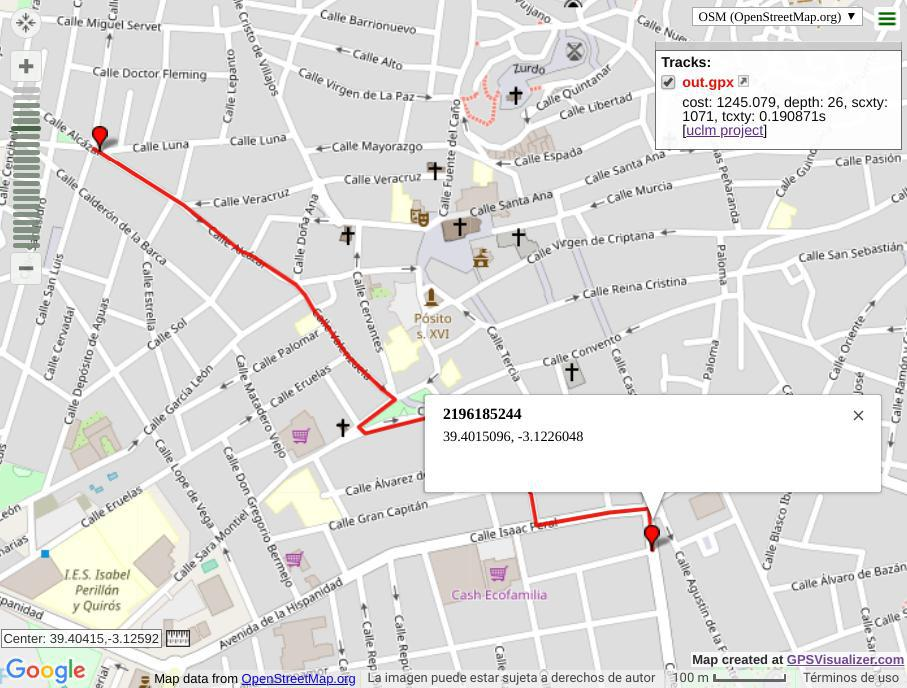
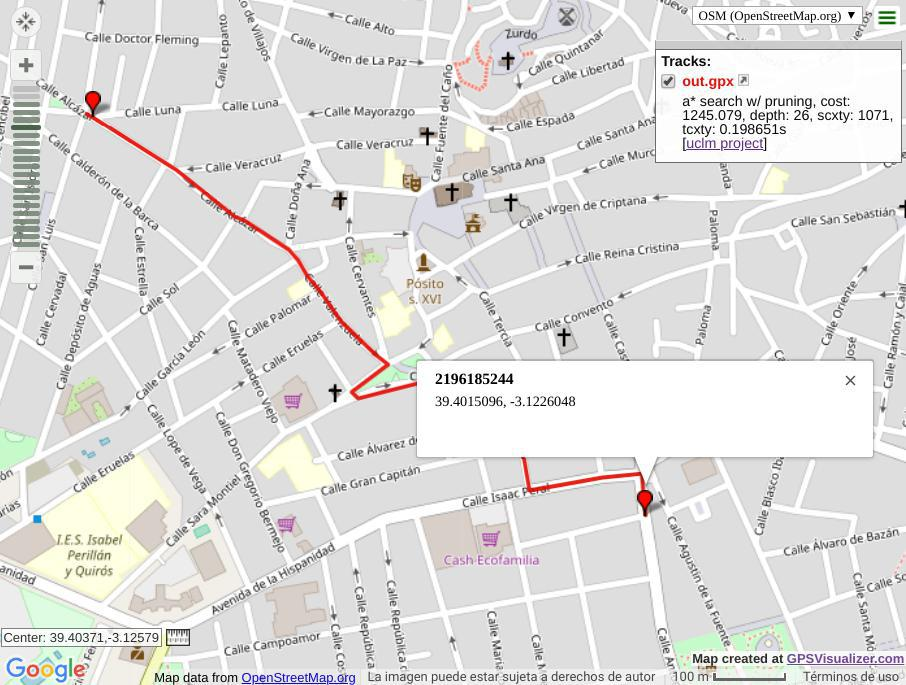
json tests

diff --git a/main.py b/main.py
@@ -7,11 +7,10 @@ from treeNode import treeNode
 from subprocess import call
 from state import state
 from lxml import etree
-import time
-import sys
+import time, sys, gc, os
 
 def main():
-    filename, strategy, depthl, pruning = askInfo()
+    filename, strategy, depthl, pruning, stat = askInfo()
     if(strategy == 3): depthi = int(input('depth increment: '))
 
     p = problem('%s.json' % filename)
@@ -23,7 +22,7 @@ def main():
     else: sol, num_f = limSearch(p, strategy, depthl, pruning)
     etime = time.time()
     createSolution(sol, itime, etime, num_f)
-    createGpx(p, sol, itime, etime, num_f)
+    createGpx(p, sol, itime, etime, num_f, stat)
     call(['solu/gpx2svg', '-i', 'solu/out.gpx', '-o', 'solu/out.svg'])
 
 def askInfo():
@@ -42,13 +41,13 @@ def askInfo():
 
         yes = {'y','yes','yay'}; no = {'n','no','nay'}
         pruning = input('pruning(y/n): ').lower()
-        if pruning in yes: pruning = True; print(switch[strategy] + ' w/ pruning')
-        elif pruning in no: pruning = False; print(switch[strategy] + ' w/o pruning')
+        if pruning in yes: pruning = True; stat = switch[strategy] + ' w/ pruning'; print(stat)
+        elif pruning in no: pruning = False; stat = switch[strategy] + ' w/o pruning'; print(stat)
         else: raise ValueError
 
         depthl = int(input('depth: '))-1
         if isinstance(depthl, str): raise ValueError
-        return filename, strategy, depthl, pruning
+        return filename, strategy, depthl, pruning, stat
     except ValueError:
         print("error. not a valid input")
         sys.exit(1)
@@ -110,7 +109,7 @@ def createSolution(sol, itime, etime, num_f):
         txt.write('no solution found for the given depth limit')
     txt.close()
 
-def createGpx(problem, sol, itime, etime, num_f):
+def createGpx(problem, sol, itime, etime, num_f, stat):
     if(sol is not None):
         list, points = [], []
         act = sol
@@ -130,7 +129,7 @@ def createGpx(problem, sol, itime, etime, num_f):
         w_desc = etree.SubElement(wpt, 'desc'); w_desc.text = problem._state_space.positionNode(n)[0] + ', ' + problem._state_space.positionNode(n)[1]
     trk = etree.SubElement(root, 'trk')
     t_name = etree.SubElement(trk, 'name'); t_name.text = 'out.gpx'; t_name.tail = '\n'
-    desc = etree.SubElement(trk, 'desc'); desc.text = 'cost: %.3f, depth: %d, scxty: %d, tcxty: %fs' % (sol._cost, sol._d, num_f, etime-itime); desc.tail = '\n'
+    desc = etree.SubElement(trk, 'desc'); desc.text = '%s, cost: %.3f, depth: %d, scxty: %d, tcxty: %fs' % (stat, sol._cost, sol._d, num_f, etime-itime); desc.tail = '\n'
     link = etree.SubElement(trk, 'link', href='http://www.uclm.es')
     text = link = etree.SubElement(link, 'text'); text.text = 'uclm project'
     trkseg = etree.SubElement(trk, 'trkseg'); trkseg.text = '\n'
